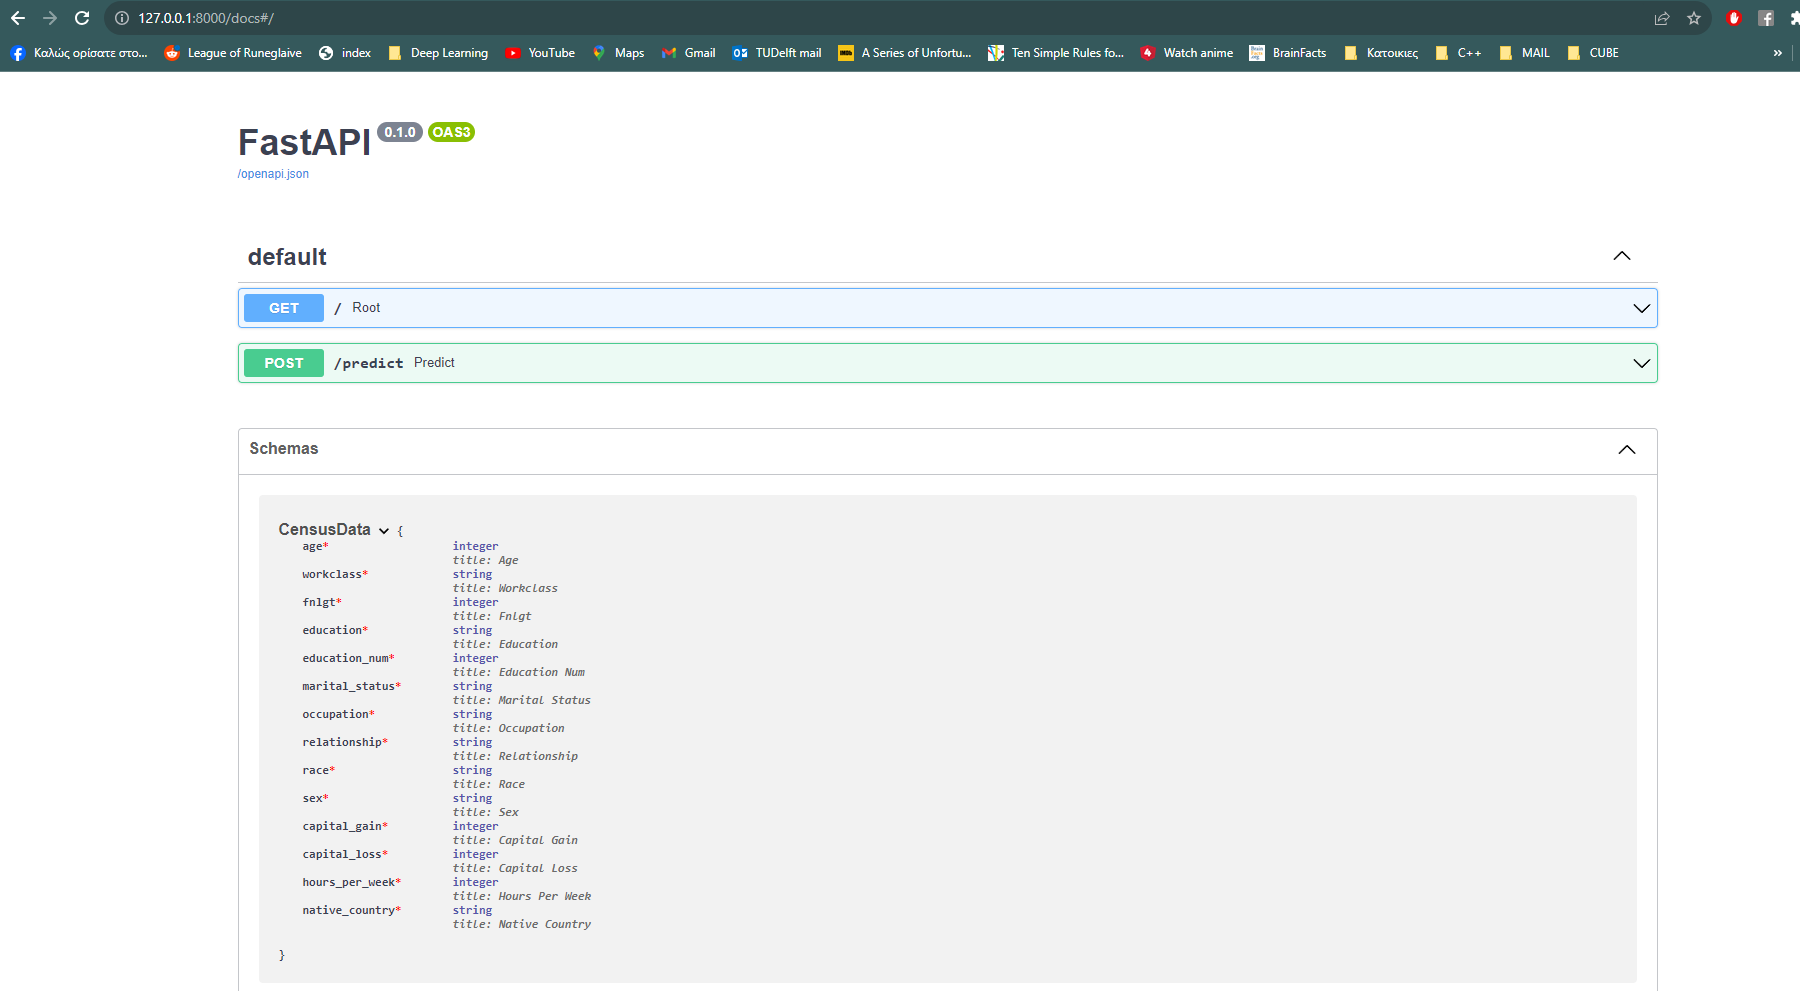
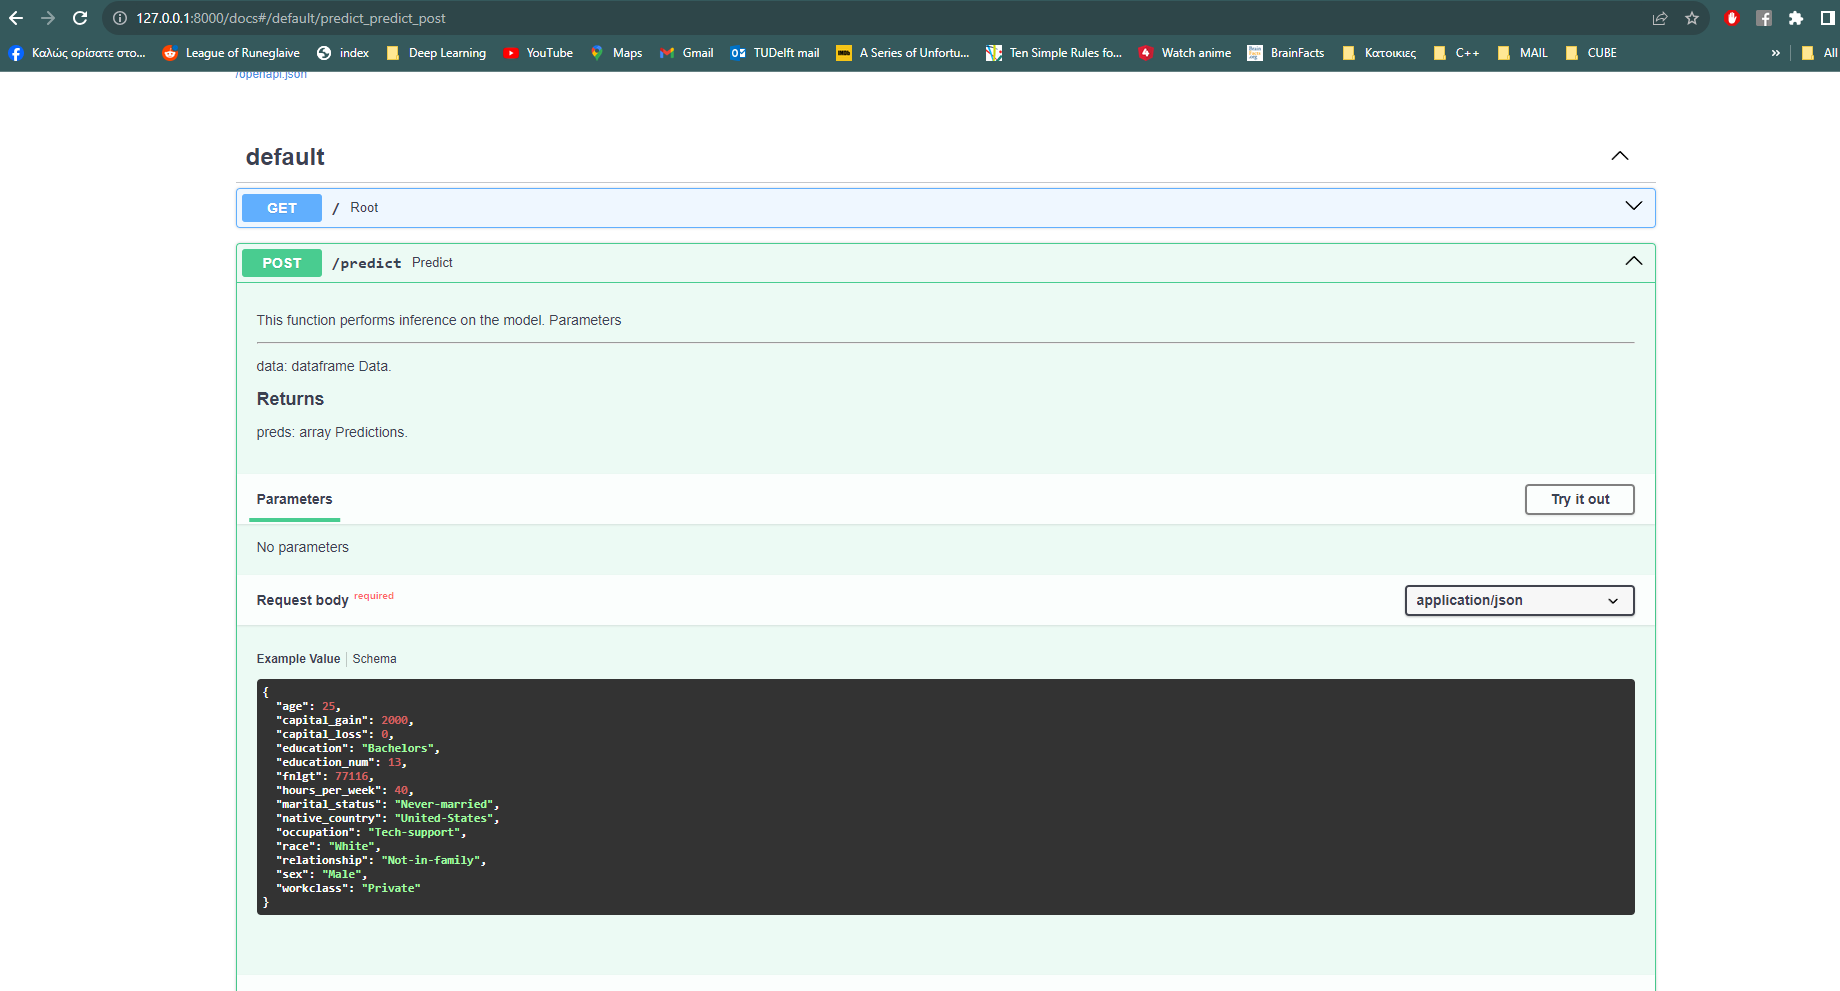
Add an example of the CensusData values using Pydantic in API main. Get response body and status code with request_post.py. Add screenshots of live_get and live_post and update example.png with actual example values. Update requirements.txt to include latest fastapi version, pydantic latest version 

diff --git a/starter/main.py b/starter/main.py
@@ -31,6 +31,29 @@ class CensusData(BaseModel):
     hours_per_week: int
     native_country: str
 
+    model_config = {
+        "json_schema_extra": {
+            "examples": [
+                {
+                    "age": 25,
+                    "workclass": "Private",
+                    "fnlgt": 77116,
+                    "education": "Bachelors",
+                    "education_num": 13,
+                    "marital_status": "Never-married",
+                    "occupation": "Tech-support",
+                    "relationship": "Not-in-family",
+                    "race": "White",
+                    "sex": "Male",
+                    "capital_gain": 2000,
+                    "capital_loss": 0,
+                    "hours_per_week": 40,
+                    "native_country": "United-States"
+                }
+            ]
+        }
+    }
+
 
 @app.get("/")
 async def root():

diff --git a/starter/request_post.py b/starter/request_post.py
@@ -36,6 +36,8 @@ if __name__ == '__main__':
     X_json = json.dumps(X_dict)
 
     # Make a request to the API
-    requests.post("https://ml-model-deployment-wh8x.onrender.com/predict", data=X_json)
+    response = requests.post("https://ml-model-deployment-wh8x.onrender.com/predict", data=X_json)
 
-    # print(response.json())
+    # Print the response
+    print(response.status_code)
+    print(response.json())
